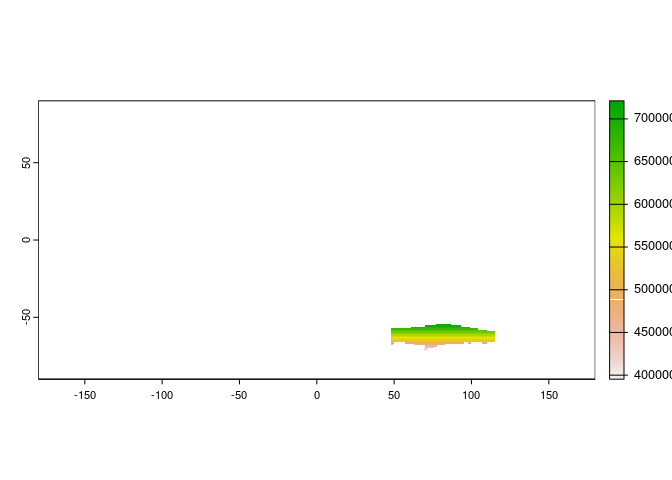
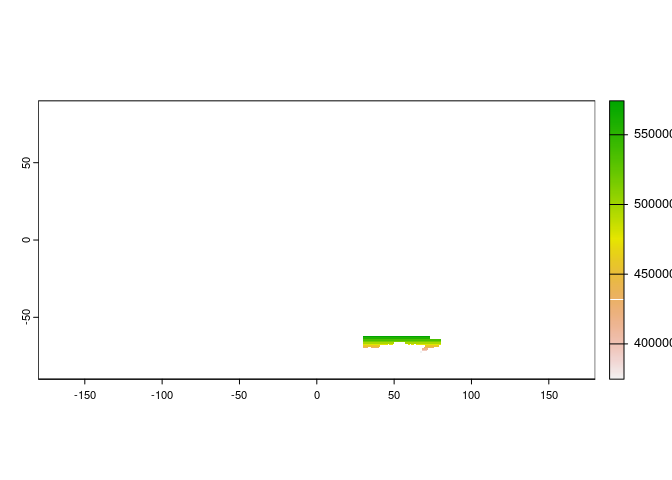
creating masks with updated names and regions

diff --git a/Scripts/03b_Regional_Models_3DMasks.md b/Scripts/03b_Regional_Models_3DMasks.md
@@ -265,20 +265,20 @@ reg_keys |>
 reg_keys
 ```
 
-    ## # A tibble: 30 × 2
-    ##       id region               
-    ##    <int> <chr>                
-    ##  1     1 Baltic Sea EwE       
-    ##  2     2 Baltic Sea Mizer     
-    ##  3     3 Benguela             
-    ##  4     4 Brasil NE            
-    ##  5     5 Central North Pacific
-    ##  6     6 Central South Pacific
-    ##  7     7 Chatham Rise         
-    ##  8     8 Cook Strait          
-    ##  9     9 East Antarctica      
-    ## 10    10 East Bass Strait     
-    ## # ℹ 20 more rows
+    ## # A tibble: 33 × 2
+    ##       id region                  
+    ##    <int> <chr>                   
+    ##  1     1 Baltic Sea EwE          
+    ##  2     2 Baltic Sea Mizer        
+    ##  3     3 Brazil NE               
+    ##  4     4 Central North Pacific   
+    ##  5     5 Central South Pacific   
+    ##  6     6 Chatham Rise            
+    ##  7     7 Cook Strait             
+    ##  8     8 East Antarctica Atlantis
+    ##  9     9 East Antarctica EwE     
+    ## 10    10 East Bass Strait        
+    ## # ℹ 23 more rows
 
 ## How to use raster mask
 
@@ -375,10 +375,10 @@ sample_df <- rast("../ESM_Sample_Data/area_1deg.nc") |>
 #Load raster mask
 mask_df <- read_csv("../Outputs/FishMIPMasks/FishMIP_regional_mask_1deg.csv") |> 
   #We will choose mask 9 - East Antarctica (see keys above)
-  filter(region == "East Antarctica")
+  filter(region == "East Antarctica EwE")
 ```
 
-    ## Rows: 23097 Columns: 4
+    ## Rows: 23816 Columns: 4
     ## ── Column specification ────────────────────────────────────────────────────────
     ## Delimiter: ","
     ## chr (1): region
@@ -408,7 +408,7 @@ extract_df_all <- read_csv("../Outputs/FishMIPMasks/FishMIP_regional_mask_1deg.c
   left_join(sample_df, by = c("lon", "lat"))
 ```
 
-    ## Rows: 23097 Columns: 4
+    ## Rows: 23816 Columns: 4
     ## ── Column specification ────────────────────────────────────────────────────────
     ## Delimiter: ","
     ## chr (1): region
